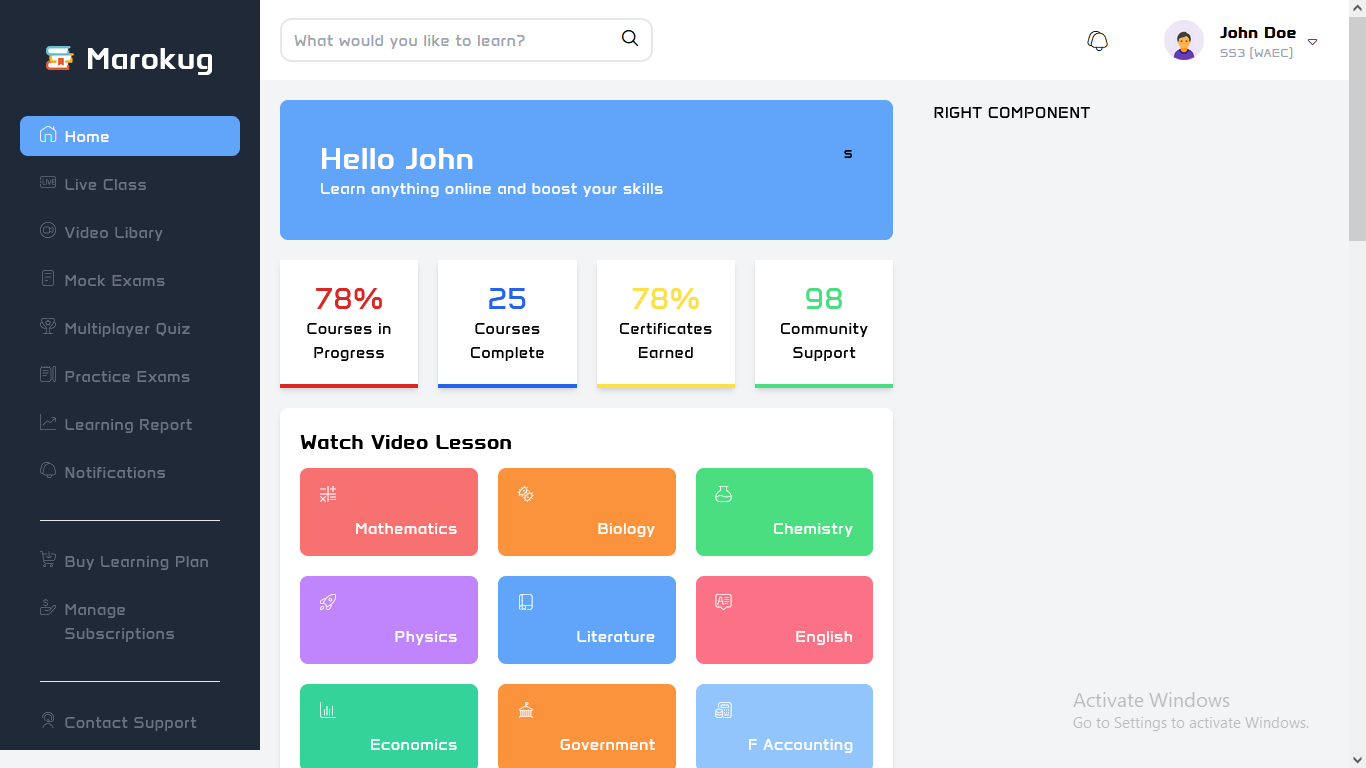
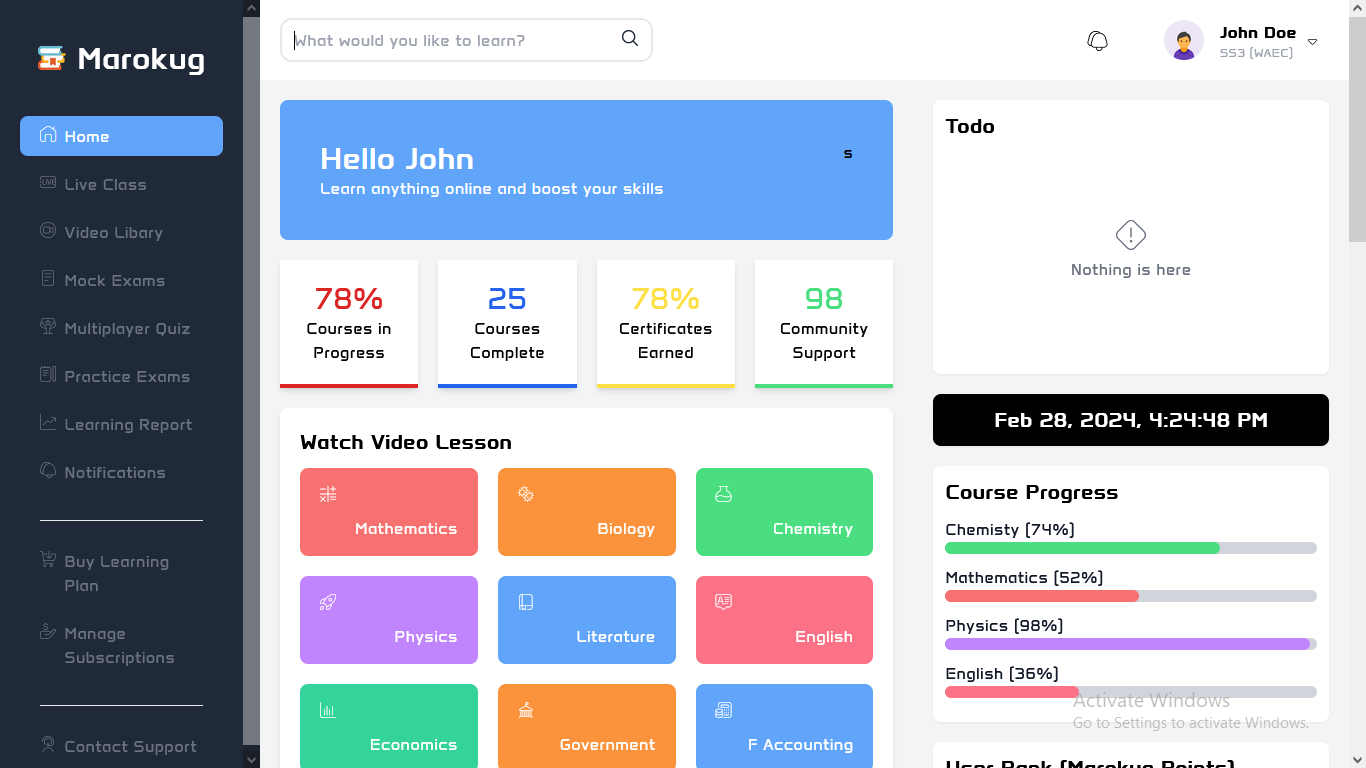
Major update (navbar dropdown, right side bar component updates)

diff --git a/src/routes/client/components/ClientNavbarComponent.jsx b/src/routes/client/components/ClientNavbarComponent.jsx
@@ -1,6 +1,18 @@
+import { useState } from "react";
 import avartar from "../../../assets/images/avartar/male.jpg";
 
 export default function ClientNavbarComponent() {
+  const [accountDropdownOpen, setAccountDropdownOpen] = useState(false);
+  const [notificationDropdownOpen, setNotificationDropdownOpen] =
+    useState(false);
+  function toggleAccountDrop() {
+    setAccountDropdownOpen(!accountDropdownOpen);
+    setNotificationDropdownOpen(false);
+  }
+  function toggleNotifcationDrop() {
+    setNotificationDropdownOpen(!notificationDropdownOpen);
+    setAccountDropdownOpen(false);
+  }
   return (
     <>
       <div className="sticky top-0 bg-gray-800 md:bg-white p-5 pt-3 pb-3 flex justify-between items-center">
@@ -16,23 +28,84 @@ export default function ClientNavbarComponent() {
         </div>
         {/* navbar right section */}
         <div className="flex gap-x-1 md:gap-x-10 items-center">
-          <div>
-            <div className="cursor-pointer hover:bg-gray-100 duration-300 box-border p-2 rounded-xl text-white md:text-black hover:text-black">
+          <div className="relative">
+            {/* notification button */}
+            <div
+              onClick={toggleNotifcationDrop}
+              className="cursor-pointer hover:bg-gray-100 duration-300 box-border p-2 rounded-xl text-white md:text-black hover:text-black"
+            >
               <i className="fi fi-tr-bells text-xl relative top-1"></i>
+            </div>
+            {/* notification dropdown */}
+            <div className="absolute right-0 top-[4.6rem] w-[250px]">
+              <div
+                className={`${
+                  notificationDropdownOpen ? "block" : "hidden"
+                } shadow-lg w-full bg-white rounded-lg`}
+              >
+                <div className="flex justify-center items-center pt-20 pb-20">
+                  <div>
+                    <div className="text-gray-500 flex justify-center text-3xl font-bold">
+                      <i className="fi fi-tr-diamond-exclamation"></i>
+                    </div>
+                    <div className="text-gray-500">Nothing is here</div>
+                  </div>
+                </div>
+              </div>
             </div>
           </div>
           {/* account dropdown badge */}
-          <div className="flex gap-x-1 md:gap-x-4 items-center cursor-pointer hover:bg-gray-100 duration-300 box-border p-2 rounded-xl group">
-            <div>
-              <img src={avartar} className="w-10 h-10 rounded-[50%]" />
-            </div>
-            <div className="flex gap-x-2 items-center">
-              <div className="hidden md:block">
-                <div className="font-bold">John Doe</div>
-                <div className="text-gray-400 text-xs">SS3 (WAEC)</div>
-              </div>
+          <div className="relative">
+            {/* dropdown button */}
+            <div
+              onClick={toggleAccountDrop}
+              className="flex gap-x-1 md:gap-x-4 items-center cursor-pointer hover:bg-gray-100 duration-300 box-border p-2 rounded-xl group"
+            >
               <div>
-                <i className="fi fi-tr-caret-down relative top-1 text-white md:text-black group-hover:text-black"></i>
+                <img src={avartar} className="w-10 h-10 rounded-[50%]" />
+              </div>
+              <div className="flex gap-x-2 items-center">
+                <div className="hidden md:block">
+                  <div className="font-bold">John Doe</div>
+                  <div className="text-gray-400 text-xs">SS3 (WAEC)</div>
+                </div>
+                <div>
+                  <i className="fi fi-tr-caret-down relative top-1 text-white md:text-black group-hover:text-black"></i>
+                </div>
+              </div>
+            </div>
+            {/* dropdown content */}
+            <div className="absolute right-0 top-[4.6rem] w-[200px]">
+              <div
+                className={`${
+                  accountDropdownOpen ? "block" : "hidden"
+                } shadow-lg w-full bg-white rounded-lg`}
+              >
+                <div className="flex gap-x-2 p-3 pl-5 pr-5 cursor-pointer hover:bg-gray-100">
+                  <div>
+                    <i class="fi fi-ts-refer"></i>
+                  </div>
+                  <div>Refer</div>
+                </div>
+                <div className="flex gap-x-2 p-3 pl-5 pr-5 cursor-pointer hover:bg-gray-100">
+                  <div>
+                    <i class="fi fi-ts-admin-alt"></i>
+                  </div>
+                  <div>Settings</div>
+                </div>
+                <div className="flex gap-x-2 p-3 pl-5 pr-5 cursor-pointer hover:bg-gray-100">
+                  <div>
+                  <i class="fi fi-tr-user-crown"></i>
+                  </div>
+                  <div>Premium</div>
+                </div>
+                <hr />
+                <div className="flex gap-x-2 p-3 pl-5 pr-5 cursor-pointer hover:bg-gray-100">
+                  <div>
+                    <i class="fi fi-rs-sign-out-alt"></i>
+                  </div>
+                  <div>Logout</div>
+                </div>
               </div>
             </div>
           </div>

diff --git a/src/routes/client/components/RightSidebar.jsx b/src/routes/client/components/RightSidebar.jsx
@@ -59,12 +59,17 @@ export default function RightSidebar() {
     <>
       <div className="pl-5 pr-5 mt-5 md:mt-0">
         <div className="rounded-lg bg-white p-3 shadow-sm hover:shadow-md duration-300">
-          <div className="font-bold text-xl">Todo</div>
+          <div className="flex gap-x-2 justify-between items-center">
+            <div className="font-bold text-xl">Todo</div>
+            <div className="cursor-pointer hover:bg-gray-100 rounded-lg p-2 pl-3 pr-3 duration-300">
+              <i className="fi fi-tr-square-plus"></i>
+            </div>
+          </div>
           <div className="">
             <div className="flex justify-center items-center pt-20 pb-20">
               <div>
                 <div className="text-gray-500 flex justify-center text-3xl font-bold">
-                  <i class="fi fi-tr-diamond-exclamation"></i>
+                  <i className="fi fi-tr-diamond-exclamation"></i>
                 </div>
                 <div className="text-gray-500">Nothing is here</div>
               </div>
@@ -80,9 +85,10 @@ export default function RightSidebar() {
           <div className="font-bold text-xl">Course Progress</div>
           <div className="mt-3">
             {courseProgress.map((progress, index) => (
-              <div key={index} className="mb-3">
-                <div className="text-gray-900">
-                  {progress.name} ({progress.progress}%)
+              <div key={index} className="mb-4">
+                <div className="text-gray-900 flex justify-between items-center">
+                  <div>{progress.name}</div>
+                  <div className="text-gray-500 text-xs">({progress.progress}%)</div>
                 </div>
                 <div className="w-full h-3 rounded-lg bg-gray-300">
                   <div
@@ -100,7 +106,7 @@ export default function RightSidebar() {
             <div className="flex justify-center items-center pt-20 pb-20">
               <div>
                 <div className="text-gray-500 flex justify-center text-3xl font-bold">
-                  <i class="fi fi-tr-diamond-exclamation"></i>
+                  <i className="fi fi-tr-diamond-exclamation"></i>
                 </div>
                 <div className="text-gray-500">Nothing is here</div>
               </div>
@@ -111,7 +117,7 @@ export default function RightSidebar() {
         <div className="rounded-lg bg-white mt-5 pt-10 pb-10 p-10 shadow-sm hover:shadow-md duration-300">
           <div className="font-bold text-xl">
             Download Report
-            <i class="fi fi-tr-chart-line-up text-sm ml-2"></i>
+            <i className="fi fi-tr-chart-line-up text-sm ml-2"></i>
           </div>
           <div className="mt-3 text-gray-500">
             Your Report: Comprehensive Insights, Detailed Analysis, and

diff --git a/src/routes/client/components/ClientFooter.jsx b/src/routes/client/components/ClientFooter.jsx
@@ -16,22 +16,22 @@ export default function ClientFooter({ Config }) {
   const socials = [
     {
       name: "Facebook",
-      icon: <i class="fi fi-brands-facebook"></i>,
+      icon: <i className="fi fi-brands-facebook"></i>,
       url: "#",
     },
     {
       name: "Twitter (X)",
-      icon: <i class="fi fi-brands-twitter-alt-circle"></i>,
+      icon: <i className="fi fi-brands-twitter-alt-circle"></i>,
       url: "#",
     },
     {
       name: "Instagram",
-      icon: <i class="fi fi-brands-instagram"></i>,
+      icon: <i className="fi fi-brands-instagram"></i>,
       url: "#",
     },
     {
       name: "Linkedin",
-      icon: <i class="fi fi-brands-linkedin"></i>,
+      icon: <i className="fi fi-brands-linkedin"></i>,
       url: "#",
     },
   ];
@@ -58,7 +58,7 @@ export default function ClientFooter({ Config }) {
               <div className="mt-3">
                 <div className="flex gap-x-5">
                   {socials.map((social, index) => (
-                    <a href={social.url} target="_blank">
+                    <a key={index} href={social.url} target="_blank">
                       <div className="cursor-pointer" key={index}>
                         {social.icon}
                       </div>
@@ -92,8 +92,8 @@ export default function ClientFooter({ Config }) {
               <div className="mt-3">
                 <CreateLink href="#" linkname="Courses" />
                 <CreateLink href="#" linkname="Become an Instructor" />
-                <CreateLink href="#" linkname="Service" />
-                <CreateLink href="#" linkname="All in One" />
+                <CreateLink href="#" linkname="Services" />
+                <CreateLink href="#" linkname="Mini Tools" />
               </div>
             </div>
             {/* contact us */}

diff --git a/src/routes/client/components/ClientRightLayout.jsx b/src/routes/client/components/ClientRightLayout.jsx
@@ -8,7 +8,7 @@ import RightSidebar from "./RightSidebar.jsx";
 export default function ClientRightLayout({ Config }) {
   const overviewData = [
     {
-      title: "78%",
+      title: "6",
       text: "Courses in Progress",
       style: {
         bg: "bg-red-600",
@@ -17,14 +17,14 @@ export default function ClientRightLayout({ Config }) {
     },
     {
       title: "25",
-      text: "Courses Complete",
+      text: "Courses Completed",
       style: {
         bg: "bg-blue-600",
         text: "text-blue-600",
       },
     },
     {
-      title: "78%",
+      title: "2",
       text: "Certificates Earned",
       style: {
         bg: "bg-yellow-300",

diff --git a/index.html b/index.html
@@ -24,6 +24,8 @@
   <title>Marokug</title>
   <link rel='stylesheet' href='https://cdn-uicons.flaticon.com/2.1.0/uicons-thin-rounded/css/uicons-thin-rounded.css'>
   <link rel='stylesheet' href='https://cdn-uicons.flaticon.com/2.1.0/uicons-regular-rounded/css/uicons-regular-rounded.css'>
+  <link rel='stylesheet' href='https://cdn-uicons.flaticon.com/2.1.0/uicons-thin-straight/css/uicons-thin-straight.css'>
+  <link rel='stylesheet' href='https://cdn-uicons.flaticon.com/2.1.0/uicons-regular-straight/css/uicons-regular-straight.css'>
   <link rel='stylesheet' href='https://cdn-uicons.flaticon.com/2.1.0/uicons-brands/css/uicons-brands.css'>
 </head>
 

diff --git a/src/App.jsx b/src/App.jsx
@@ -1,12 +1,10 @@
 import Config from "./data/config.json";
 import ClientLayout from "./routes/client/layout";
-// import GridLayout from "./routes/client/components/grid";
 
 function App() {
   return (
     <>
       <ClientLayout Config={Config} />
-      {/* <GridLayout Config={Config} /> */}
     </>
   );
 }
